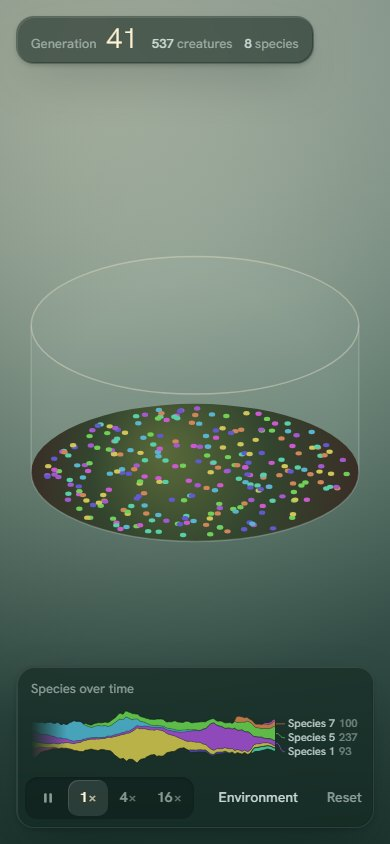
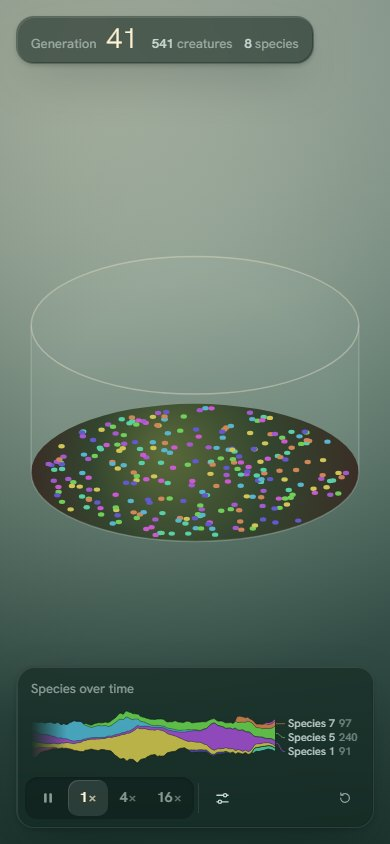
fix(ui): review round 1: phone dock fits 360 px, motion class from env.js only, focus return, Space repeat, ui-sr-only
- Under 700 px Environment and Reset become icon buttons (label kept as the
  accessible name) and HUD icons never shrink, so the dock fits 360 px.
- New src/ui/motion.js drives html.ui-motion-reduce only from
  prefersReducedMotion() (so ?motion= wins), follows OS changes, and is
  ref-counted so the last destroy() removes it; the raw media query is gone.
- A user close of the brain panel returns focus to the opener, or to the
  HUD speed group.
- Held Space no longer toggles pause on auto-repeat.
- The live region uses .ui-sr-only.

diff --git a/src/ui/ui.css b/src/ui/ui.css
@@ -219,6 +219,7 @@
   white-space: nowrap;
   transition: background-color 200ms var(--e-p2-out), color 200ms var(--e-p2-out);
 }
+.ui-hud-btn svg { flex: none; }
 .ui-hud-btn:hover { background: rgba(201, 216, 210, 0.08); }
 .ui-hud-btn[aria-expanded="true"] { background: rgba(201, 216, 210, 0.12); color: var(--highlight); }
 .ui-hud-btn--quiet { color: var(--ui-text-2); margin-left: auto; }
@@ -438,7 +439,9 @@ button.ui-brain-chip:hover { background: rgba(107, 79, 160, 0.42); border-color:
   .ui-river { height: 64px; }
   .ui-hud-dock { gap: 2px; }
   .ui-speed-opt { min-width: 40px; height: 36px; }
-  .ui-hud-btn { padding: 0 10px; height: 40px; }
+  /* icon-only buttons on phones: the dock must fit 360 px; the label stays as the accessible name */
+  .ui-hud-btn { position: relative; width: 40px; height: 40px; padding: 0; justify-content: center; }
+  .ui-hud-btn > span { position: absolute; width: 1px; height: 1px; overflow: hidden; clip: rect(0 0 0 0); clip-path: inset(50%); white-space: nowrap; }
 
   /* with the sheet up, the HUD folds to two quiet rows at the top */
   html[data-ui-brain="open"] .ui-hud { justify-content: flex-start; gap: 8px; }
@@ -472,15 +475,13 @@ button.ui-brain-chip:hover { background: rgba(107, 79, 160, 0.42); border-color:
   .ui-brain-canvas { height: 224px; }
 }
 
-/* ------------------------------------------------------------------ reduced motion: fades only */
-@media (prefers-reduced-motion: reduce) {
-  .ui-brain, .ui-brain[data-open="true"] { transform: none; transition: opacity 300ms linear, visibility 0s linear 300ms; }
-  .ui-brain[data-open="true"] { transition: opacity 300ms linear, visibility 0s; }
-  .ui-speed-thumb { transition: none; }
-  .ui-brain-energy-fill { transition: none; }
-  .ui-hud-env, .ui-hud-env[data-open="true"] { transition: opacity 250ms linear, visibility 0s; }
-}
+/* ------------------------------------------------------------------ reduced motion: fades only
+   Driven only by the html.ui-motion-reduce class, which src/ui/motion.js sets
+   from env.js prefersReducedMotion(), so ?motion=reduce|full wins over the OS. */
 html.ui-motion-reduce .ui-brain, html.ui-motion-reduce .ui-brain[data-open="true"] { transform: none; transition: opacity 300ms linear, visibility 0s linear 300ms; }
 html.ui-motion-reduce .ui-brain[data-open="true"] { transition: opacity 300ms linear, visibility 0s; }
 html.ui-motion-reduce .ui-speed-thumb, html.ui-motion-reduce .ui-brain-energy-fill { transition: none; }
 html.ui-motion-reduce .ui-hud-env, html.ui-motion-reduce .ui-hud-env[data-open="true"] { transition: opacity 250ms linear, visibility 0s; }
+
+/* screen-reader-only text (live regions), kept in the ui- namespace */
+.ui-sr-only { position: absolute; width: 1px; height: 1px; overflow: hidden; clip: rect(0 0 0 0); clip-path: inset(50%); white-space: nowrap; }

diff --git a/src/ui/brain-panel.js b/src/ui/brain-panel.js
@@ -17,6 +17,7 @@
  */
 import './ui.css';
 import { prefersReducedMotion } from '../core/env.js';
+import { holdMotionClass } from './motion.js';
 
 const IN_LABELS = ['food ←→', 'food ahead', 'food near', 'others ←→', 'others ahead', 'others near', 'energy', 'wall near', 'bias'];
 const OUT_LABELS = ['turn', 'thrust', 'eat', 'mate'];
@@ -87,7 +88,7 @@ export function createBrainPanel(root, { onClose = () => {}, onLineage, speciesH
         <ol class="ui-brain-chips" data-k="chips"></ol>
       </section>
     </div>
-    <p class="sr-only" aria-live="polite" data-k="live"></p>`;
+    <p class="ui-sr-only" aria-live="polite" data-k="live"></p>`;
   root.append(el);
 
   const $ = (s) => el.querySelector(s);
@@ -170,8 +171,13 @@ export function createBrainPanel(root, { onClose = () => {}, onLineage, speciesH
     requestAnimationFrame(() => { refs.live.textContent = text; });
   }
 
+  let returnFocus = null;
   function setOpen(v) {
     if (open === v) return;
+    if (v) {
+      const a = document.activeElement;
+      returnFocus = a && a !== document.body && !el.contains(a) ? a : null;
+    }
     open = v;
     el.dataset.open = String(v);
     el.inert = !v;
@@ -192,14 +198,26 @@ export function createBrainPanel(root, { onClose = () => {}, onLineage, speciesH
   };
   refs.chips.addEventListener('click', onChip);
 
-  const userClose = () => { setOpen(false); onClose(); };
+  // a user close hands focus back to where it was before show(), or to the HUD's
+  // speed group; it only moves focus that would otherwise be lost in the inert panel
+  const userClose = () => {
+    const a = document.activeElement;
+    const lost = !a || a === document.body || el.contains(a);
+    setOpen(false);
+    if (lost) {
+      const back = returnFocus?.isConnected && !returnFocus.closest('[inert]') ? returnFocus : document.querySelector('.ui-speed-opt[tabindex="0"]');
+      back?.focus({ preventScroll: true });
+    }
+    returnFocus = null;
+    onClose();
+  };
   closeBtn.addEventListener('click', userClose);
   const onKey = (e) => {
     if (e.key === 'Escape' && open && !e.defaultPrevented) { e.preventDefault(); userClose(); }
   };
   window.addEventListener('keydown', onKey);
 
-  if (prefersReducedMotion()) document.documentElement.classList.add('ui-motion-reduce');
+  const releaseMotion = holdMotionClass();
 
   const api = {
     show(ins) {
@@ -241,6 +259,7 @@ export function createBrainPanel(root, { onClose = () => {}, onLineage, speciesH
       closeBtn.removeEventListener('click', userClose);
       refs.chips.removeEventListener('click', onChip);
       viz.destroy();
+      releaseMotion();
       delete document.documentElement.dataset.uiBrain;
       el.remove();
     },

diff --git a/src/ui/hud.js b/src/ui/hud.js
@@ -8,7 +8,7 @@
  * lands in the right place without the live screen knowing the HUD's layout.
  */
 import './ui.css';
-import { prefersReducedMotion } from '../core/env.js';
+import { holdMotionClass } from './motion.js';
 
 const SPEEDS = [0, 1, 4, 16];
 const DEFAULT_PARAMS = { foodRate: 1, mutationRate: 0.3, temperature: 0.5 };
@@ -70,7 +70,7 @@ export function createHud(root, { onSpeed = () => {}, onParams = () => {}, onRes
       </div>
     </div>`;
   root.append(el);
-  if (prefersReducedMotion()) document.documentElement.classList.add('ui-motion-reduce');
+  const releaseMotion = holdMotionClass();
 
   const $ = (s) => el.querySelector(s);
   const out = { gen: $('[data-k=gen]'), pop: $('[data-k=pop]'), sp: $('[data-k=sp]') };
@@ -170,6 +170,8 @@ export function createHud(root, { onSpeed = () => {}, onParams = () => {}, onRes
       // keyboard users pressing Space on a focused control mean that control
       if (e.target instanceof Element && e.target.closest('button, a, [role=radio], [role=button], summary')) return;
       e.preventDefault();
+      // holding Space must not flicker between paused and running
+      if (e.repeat) return;
       choose(current === 0 ? lastRunning : 0);
     } else if (e.key === '1' || e.key === '2' || e.key === '3') {
       choose(SPEEDS[Number(e.key)]);
@@ -212,6 +214,7 @@ export function createHud(root, { onSpeed = () => {}, onParams = () => {}, onRes
       el.removeEventListener('click', onClick);
       group.removeEventListener('keydown', onGroupKey);
       ro.disconnect();
+      releaseMotion();
       el.remove();
     },
   };

diff --git a/src/ui/motion.js b/src/ui/motion.js
@@ -1,0 +1,29 @@
+/**
+ * One switch for reduced motion in the UI's CSS. The class on <html> comes
+ * only from env.js prefersReducedMotion() (so ?motion=reduce|full beats the OS
+ * setting), follows OS changes live, and is reference-counted so the HUD and
+ * the brain panel can each hold it and the last destroy() removes it.
+ */
+import { prefersReducedMotion, onReducedMotionChange } from '../core/env.js';
+
+let holders = 0;
+let unlisten = null;
+const apply = () => document.documentElement.classList.toggle('ui-motion-reduce', prefersReducedMotion());
+
+/** @returns {() => void} release */
+export function holdMotionClass() {
+  if (holders++ === 0) {
+    apply();
+    unlisten = onReducedMotionChange(apply);
+  }
+  let held = true;
+  return () => {
+    if (!held) return;
+    held = false;
+    if (--holders === 0) {
+      unlisten?.();
+      unlisten = null;
+      document.documentElement.classList.remove('ui-motion-reduce');
+    }
+  };
+}

diff --git a/src/ui/dev.js b/src/ui/dev.js
@@ -162,6 +162,8 @@ const panel = createBrainPanel(root, {
   },
   speciesHue: (id) => species.find((s) => s.id === id)?.hue,
 });
+// handles for scripted checks (dev bench only)
+window.__ui = { hud, river, panel };
 function newCreatureWithId(id) { const c = newCreature(); c.id = id; return c; }
 
 // a long history so the river is full on first look
